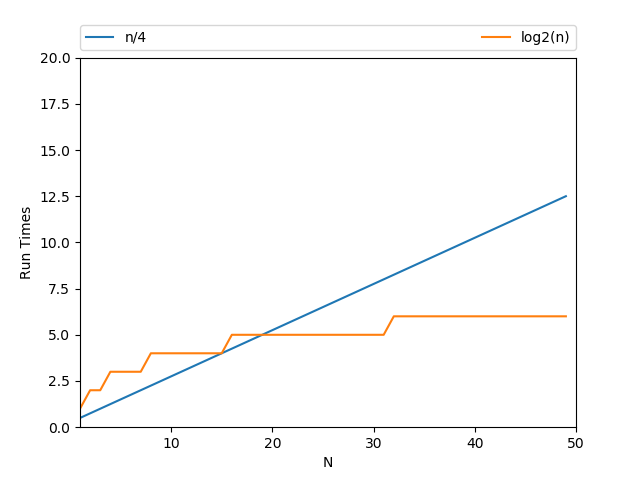
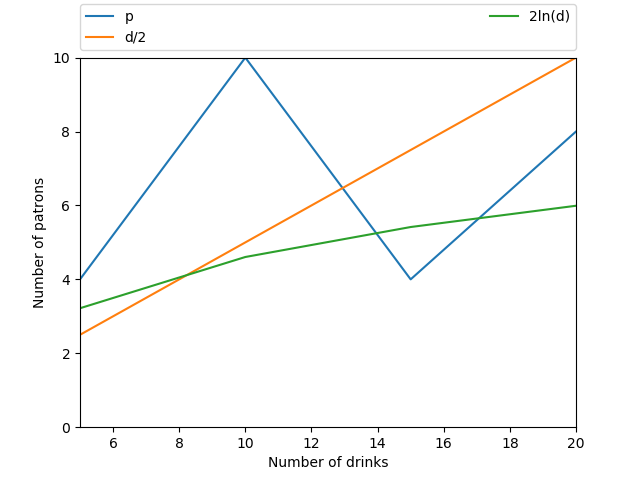
notha one

diff --git a/PS1/q3.py b/PS1/q3.py
@@ -21,13 +21,16 @@ for d in num_drinks:
 print()
 for d in num_drinks:
   list1.append(P(d))
-  
-plt.plot(list1, label='d/2')
-plt.plot(list2, label='2ln(d)')
+
+plt.plot([5, 10, 15, 20], [4, 10, 4, 8], label='p')
+plt.plot([5, 10, 15, 20], list1, label='d/2')
+plt.plot([5, 10, 15, 20], list2, label='2ln(d)')
 plt.legend(bbox_to_anchor=(0., 1.02, 1., .102), loc=3,
            ncol=2, mode="expand", borderaxespad=0.)
 
-plt.axis([1, 20, 0, 20])
+#plt.xticks(list1, num_drinks)
+#plt.xticks(list2, num_drinks)
+plt.axis([5, 20, 0, 10])
 plt.ylabel('Number of patrons')
 plt.xlabel('Number of drinks')
 plt.show()
